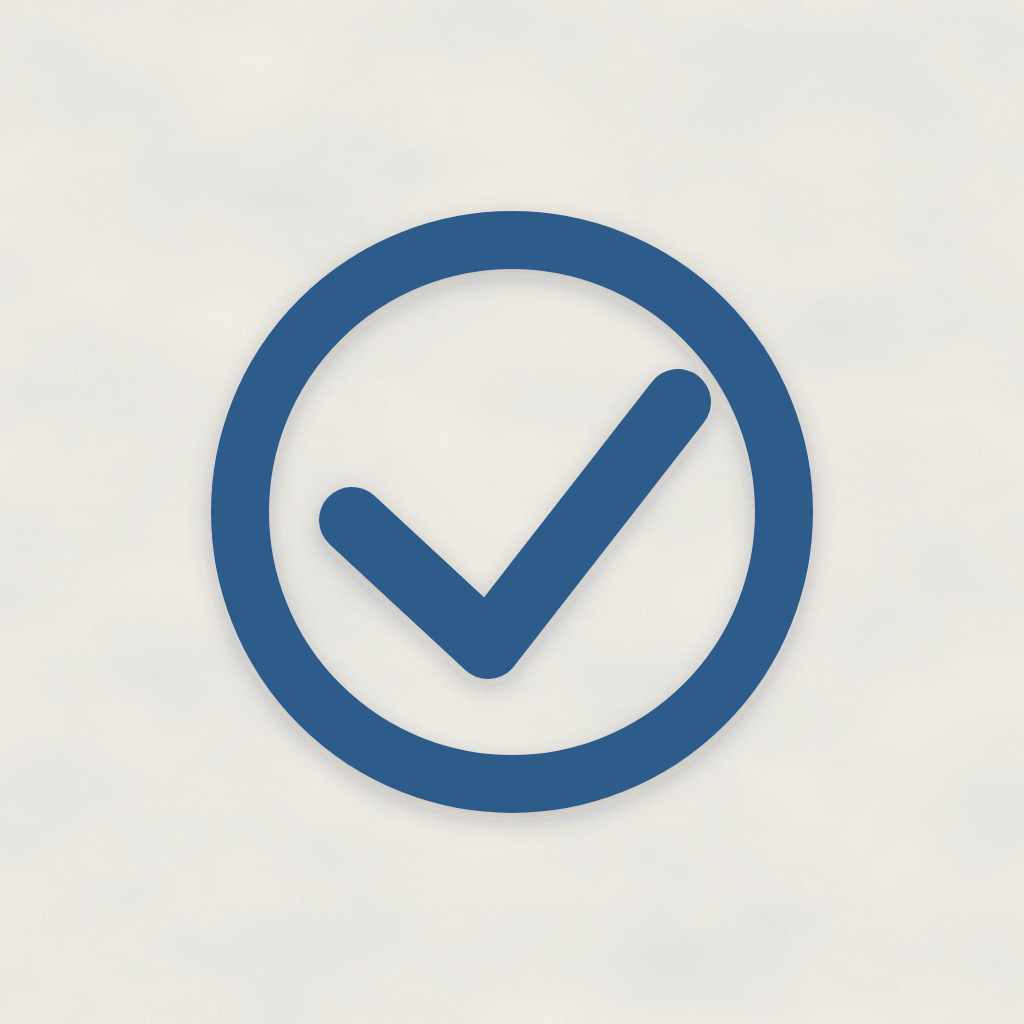
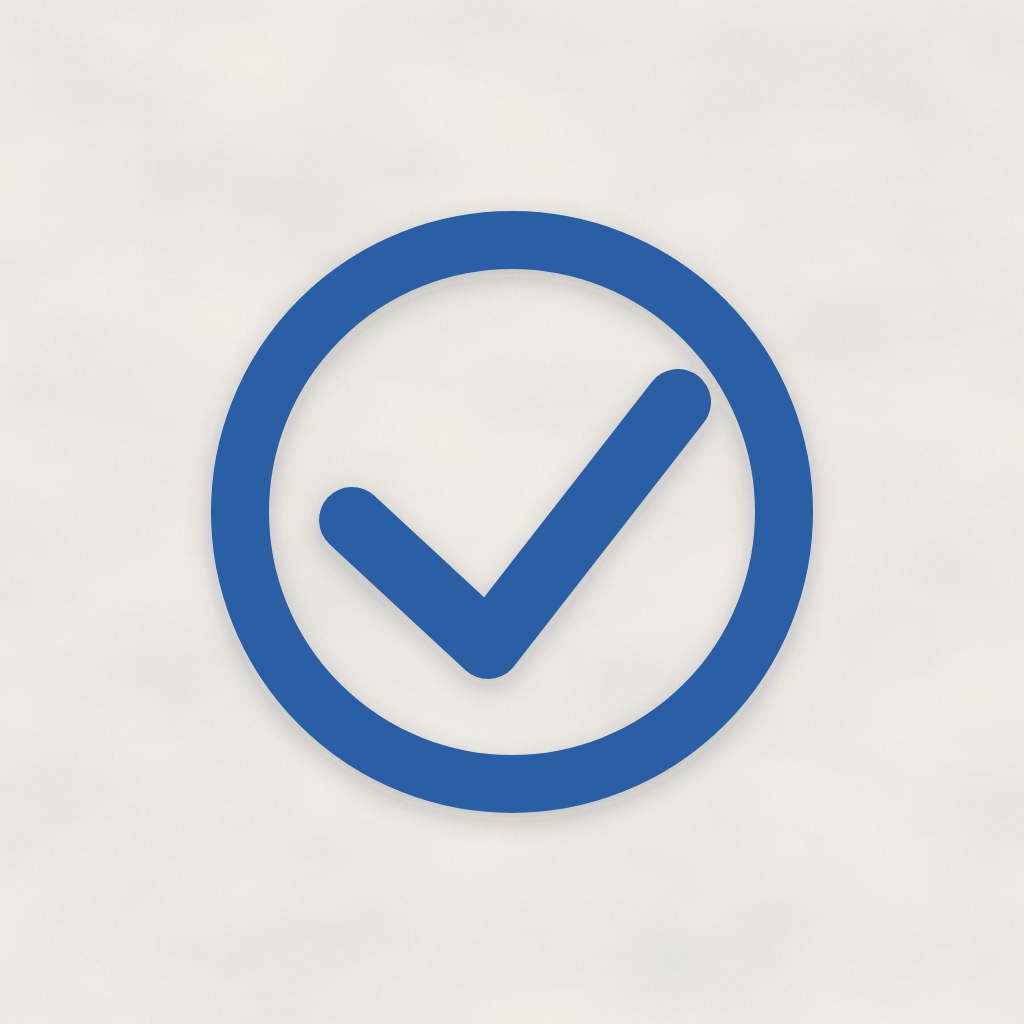
Santorini/Akropolis: Himmel überm Marmor, Kuppel-Blau, Tempel-Fries
- Backdrop: oben zarter Ägäis-Himmel, der in Elfenbein ausläuft — weiße
  Tafeln vor blauem Himmel wie Kykladen-Häuser (Dark: Nachthimmel).
- Primärblau satter: Santorini-Kuppel-Blau #2B5FA6 (Dark #7BA7DC);
  Karten einen Hauch weißer (gekalkt).
- Tab-Bar: Mäander-Fries an der Oberkante — das Gebälk der Bar, auf
  jedem Screen sichtbar.
- Listenfarben/Fallbacks aufs neue Blau; Farb-Migrationskette um Stufe 3
  (Lapis → Kuppel-Blau) erweitert; Icon-Set im neuen Blau regeneriert.

Claude-Session: https://claude.ai/code/session_01T7Gt3KcRgsM1Afp69KytMJ

Changed region(s): [[0.1875, 0.1875, 0.8125, 0.8125]]

diff --git a/src/components/GlassTabBar.tsx b/src/components/GlassTabBar.tsx
@@ -7,6 +7,8 @@ import { Platform, Pressable, StyleSheet, View } from 'react-native';
 import Animated, { useAnimatedStyle, useSharedValue, withSpring, withTiming } from 'react-native-reanimated';
 import { useSafeAreaInsets } from 'react-native-safe-area-context';
 
+import Svg, { Defs, Path, Pattern, Rect } from 'react-native-svg';
+
 import { Glass } from '@/components/Glass';
 import { Type } from '@/components/Type';
 import { hapticSelect } from '@/lib/haptics';
@@ -52,6 +54,17 @@ export function GlassTabBar({ state, navigation }: TabBarProps) {
         style={[styles.bar, Shadow.lg]}
         contentStyle={{ flexDirection: 'row', height: TAB_BAR_HEIGHT, alignItems: 'center' }}
       >
+        {/* Tempel-Fries: Mäander an der Oberkante — das Gebälk der Bar. */}
+        <View pointerEvents="none" style={styles.frieze}>
+          <Svg width="100%" height="7">
+            <Defs>
+              <Pattern id="bar-maeander" patternUnits="userSpaceOnUse" width="8.4" height="7">
+                <Path d="M0 0.7 H8.4 M7.7 0.7 V6.3 H2.1 V2.8 H5.25 V4.55" stroke={colors.teal} strokeWidth="1" fill="none" />
+              </Pattern>
+            </Defs>
+            <Rect x="0" y="0" width="100%" height="7" fill="url(#bar-maeander)" />
+          </Svg>
+        </View>
         {state.routes.map((route, index) => {
           const focused = state.index === index;
           const Icon = ICONS[route.name] ?? Sun;
@@ -161,5 +174,13 @@ const styles = StyleSheet.create({
   tabInner: {
     alignItems: 'center',
     gap: 2,
+  },
+  frieze: {
+    position: 'absolute',
+    top: 4,
+    left: 16,
+    right: 16,
+    height: 7,
+    opacity: 0.4,
   },
 });

diff --git a/src/components/Backdrop.tsx b/src/components/Backdrop.tsx
@@ -1,6 +1,6 @@
-// Backdrop.tsx — ruhiger Marmor-Grund hinter den Steintafeln: ein sanfter
-// Elfenbein-Verlauf (Dark: Nacht-Schiefer), ohne Aurora-Glows — die Farbe
-// tragen die Akzente, nicht der Hintergrund. Optional mit Scroll-Parallax.
+// Backdrop.tsx — Santorini-Grund hinter den Steintafeln: oben ein zarter
+// Ägäis-Himmel, der in Elfenbein-Marmor ausläuft — weiße Tafeln vor blauem
+// Himmel (Dark: Nachthimmel über der Ägäis). Optional mit Scroll-Parallax.
 import { LinearGradient } from 'expo-linear-gradient';
 import React from 'react';
 import { StyleSheet, View } from 'react-native';
@@ -18,8 +18,8 @@ export function Backdrop({ scrollY }: { scrollY?: SharedValue<number> }) {
   const reduced = useReducedMotion();
 
   const base: [string, string, string] = isDark
-    ? ['#0B0D10', '#000000', '#0C0E0C']
-    : ['#ECE7DB', '#F6F3EA', '#E7E3D5'];
+    ? ['#0A1424', '#000000', '#0B0D10']
+    : ['#C9DCEF', '#F2F0E5', '#EAE6D8'];
 
   const parallax = useAnimatedStyle(() => {
     if (!scrollY || reduced) return { transform: [{ translateY: 0 }] };

diff --git a/src/theme/theme.tokens.ts b/src/theme/theme.tokens.ts
@@ -16,7 +16,7 @@ export const R = { xs: 7, sm: 10, md: 13, lg: 16, xl: 18, xxl: 24, pill: 999 } a
 // ↓↓↓ DIE EINZIGEN ZWEI MARKEN-HEX (Antikes Griechenland) ↓↓↓
 // Marmor & Ägäis: gealtertes Lapis-Blau trägt die Handlung, der Oliven-Zweig
 // erdet Zweitinformationen (Überfällig, Termine, Info).
-const ACCENT_A = '#2D5C8A'; // primär / CTA (gealtertes Ägäis-Blau / Lapis)
+const ACCENT_A = '#2B5FA6'; // primär / CTA (Santorini-Kuppel-Blau)
 const ACCENT_B = '#7E8C5C'; // sekundär / info (Oliven-Zweig)
 
 // Light = DEFAULT: Marmor/Elfenbein-Neutraltöne (nie reines Weiß — Stein).
@@ -26,7 +26,7 @@ export const lightColors = {
   teal: ACCENT_A,
   indigo: ACCENT_B,
   bg: '#F4F1E8',
-  bg2: '#FBF9F1',
+  bg2: '#FDFBF4',
   bg3: '#EFEBDF',
   bg4: '#E5E0D1',
   // Chip = ruhige Stein-Well auf der Marmor-Tafel (solide, kein Alpha-Weiß).
@@ -47,7 +47,7 @@ export const lightColors = {
 // Dark = Nacht über der Ägäis: dunkler Schiefer-Marmor, Akzente eine Stufe
 // heller, damit sie auf Dunkel genauso ruhig leuchten wie Light auf Elfenbein.
 export const darkColors: typeof lightColors = {
-  teal: '#6D9CCB',
+  teal: '#7BA7DC',
   indigo: '#9DAF7E',
   bg: '#000000',
   bg2: '#101315',
@@ -61,9 +61,9 @@ export const darkColors: typeof lightColors = {
   text: '#FFFFFF',
   text2: 'rgba(255,255,255,0.70)',
   text3: 'rgba(255,255,255,0.38)',
-  success: '#6D9CCB',
+  success: '#7BA7DC',
   info: '#9DAF7E',
-  danger: '#6D9CCB',
+  danger: '#7BA7DC',
   warning: '#9DAF7E',
 };
 

diff --git a/src/app/_layout.tsx b/src/app/_layout.tsx
@@ -64,7 +64,7 @@ export function ErrorBoundary({ error, retry }: { error: Error; retry: () => Pro
           accessibilityRole="button"
           accessibilityLabel="Erneut versuchen"
           onPress={() => { void retry(); }}
-          style={{ marginTop: 8, paddingVertical: 12, paddingHorizontal: 28, borderRadius: 999, backgroundColor: '#2D5C8A' }}
+          style={{ marginTop: 8, paddingVertical: 12, paddingHorizontal: 28, borderRadius: 999, backgroundColor: '#2B5FA6' }}
         >
           <Text style={{ color: '#FFFFFF', fontWeight: '600' }}>Erneut versuchen</Text>
         </Pressable>

diff --git a/src/components/PhotoViewer.tsx b/src/components/PhotoViewer.tsx
@@ -120,7 +120,7 @@ export function PhotoViewer({
               paddingVertical: Spacing.sm,
               paddingHorizontal: Spacing.lg,
               borderRadius: 999,
-              backgroundColor: confirm ? 'rgba(45,92,138,0.4)' : 'rgba(255,255,255,0.14)',
+              backgroundColor: confirm ? 'rgba(43,95,166,0.4)' : 'rgba(255,255,255,0.14)',
             }}
           >
             <Trash2 size={16} color="#FFFFFF" strokeWidth={2} />

diff --git a/src/components/listMeta.ts b/src/components/listMeta.ts
@@ -37,4 +37,4 @@ export function listIcon(name: string): LucideIcon {
 
 /** Ägäis-Töne (Iron Rule: keine fremden Akzente, kein Alarm-Rot):
  *  Lapis · Tiefsee · Meer-Türkis · Olive · Tiefe Olive · Ocker. */
-export const LIST_COLORS = ['#2D5C8A', '#1F4467', '#4E8296', '#7E8C5C', '#5C6B42', '#B08A3C'] as const;
+export const LIST_COLORS = ['#2B5FA6', '#1F4467', '#4E8296', '#7E8C5C', '#5C6B42', '#B08A3C'] as const;

diff --git a/src/data/ListRepository.ts b/src/data/ListRepository.ts
@@ -9,7 +9,7 @@ export function defaultList(): List {
     id: DEFAULT_LIST_ID,
     name: 'Erinnerungen',
     icon: 'inbox',
-    color: '#2D5C8A',
+    color: '#2B5FA6',
     goal: null,
     deadline: null,
     sort: 0,

diff --git a/src/data/backup.ts b/src/data/backup.ts
@@ -156,7 +156,7 @@ export async function importBackup(json: string, sinks: ImportSinks = {}): Promi
       name: l.name,
       icon: str(l.icon) ? l.icon : 'inbox',
       // Alte Marken-Farben aus Backups vor v1.2 ziehen mit auf die Erdtöne um.
-      color: str(l.color) ? remapListColor(l.color) : '#2D5C8A',
+      color: str(l.color) ? remapListColor(l.color) : '#2B5FA6',
       goal: str(l.goal) ? l.goal : null,
       deadline: str(l.deadline) ? l.deadline : null,
       sort: typeof l.sort === 'number' ? l.sort : 0,

diff --git a/src/data/colorRebrand.ts b/src/data/colorRebrand.ts
@@ -17,6 +17,8 @@ export const COLOR_REBRAND: ReadonlyArray<readonly [string, string]> = [
   ['#74936B', '#7E8C5C'], // Salbei → Olive
   ['#5A7A50', '#5C6B42'], // Olive → Tiefe Olive
   ['#4E7E9B', '#4E8296'], // Meerblau → Meer-Türkis
+  // Stufe 3: Ägäis (v1.3) → Santorini (v1.3.1)
+  ['#2D5C8A', '#2B5FA6'], // Lapis → Kuppel-Blau
 ];
 
 /** Alte Markenfarbe → aktuelle (folgt der Kette); unbekannte bleiben. */